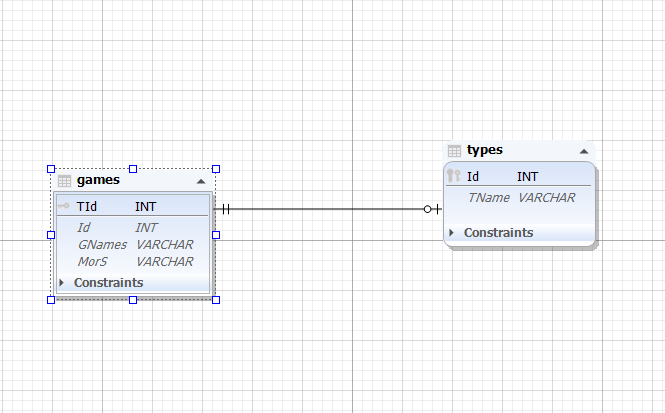
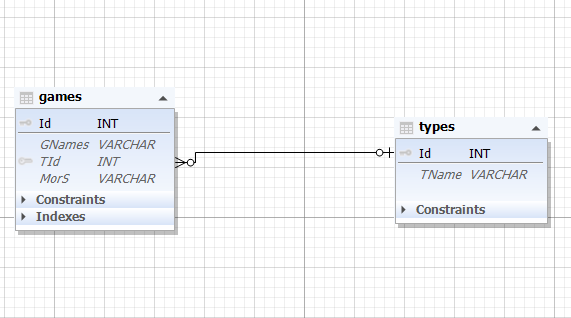
adatbázis javtás

Changed region(s): [[0.0, 0.0, 1.0, 1.0]]

diff --git a/server/server.js b/server/server.js
@@ -58,12 +58,12 @@ app.get("/games/:id", (req, res) => {
 });
 
 app.post("/games", (req, res) => {
-  console.log(req.body);
   const newR = {
     GNames: mySanitizeHtml(req.body.GNames),
     TId: +mySanitizeHtml(req.body.TId),
-    MoS: mySanitizeHtml(req.body.MoS),
+    MorS: mySanitizeHtml(req.body.MorS),
   };
+console.log(newR);
 
   pool.getConnection(function (error, connection) {
     if (error) {
@@ -72,13 +72,13 @@ app.post("/games", (req, res) => {
     }
     const sql = `
     INSERT INTO games
-      (GNames, TId, MoS)
+      (GNames, TId, MorS)
       VALUES
       (?, ?, ?)
     `;
     connection.query(
       sql,
-      [newR.GNames, newR.TId, newR.MoS],
+      [newR.GNames, newR.TId, newR.MorS],
       (error, results, fields) => {
         sendingPost(res, error, results, newR);
       }
@@ -91,9 +91,9 @@ app.post("/games", (req, res) => {
 app.put("/games/:id", (req, res) => {
   const id = req.params.id;
   const newR = {
-    name: mySanitizeHtml(req.body.GNames),
+    GNames: mySanitizeHtml(req.body.GNames),
     TId: +mySanitizeHtml(req.body.TId),
-    MoS: mySanitizeHtml(req.body.MoS),
+    MorS: mySanitizeHtml(req.body.MorS),
   };
   pool.getConnection(function (error, connection) {
     if (error) {
@@ -105,12 +105,12 @@ app.put("/games/:id", (req, res) => {
     UPDATE games SET
     GNames = ?,
     TId = ?,
-    MoS = ?
+    MorS = ?
     WHERE id = ?
   `;
     connection.query(
       sql,
-      [newR.GNames, newR.TId, newR.MoS, id],
+      [newR.GNames, newR.TId, newR.MorS, id],
       (error, results, fields) => {
         sendingPut(res, error, results, id, newR)
       }
